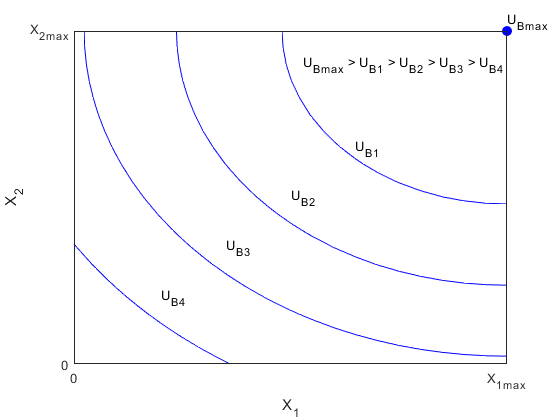
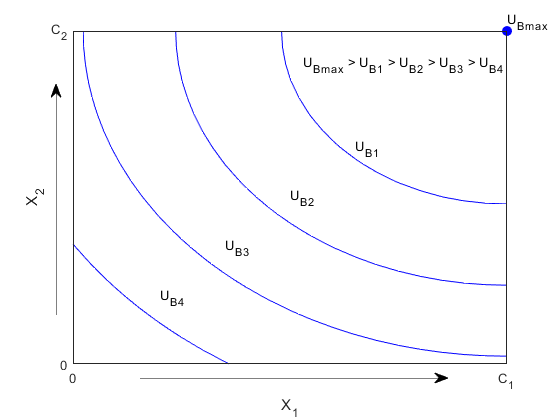
revised figures

diff --git a/figures_2019_10/fig3.m b/figures_2019_10/fig3.m
@@ -18,10 +18,10 @@ c1 = contour(x1,x2,y1,[1], 'r', 'LineWidth',1.5 );
 f1 =gca;
 f1.XAxisLocation ='top';
 xticks([0])
-xticklabels({'X_1_m_a_x'})
+xticklabels({'C_2'})
 f1.YAxisLocation ='right';
 yticks([0])
-yticklabels({'X_2_m_a_x'})
+yticklabels({'C_1'})
 hold on
 scatter(0,0,'MarkerEdgeColor','r',...
               'MarkerFaceColor','r',...
@@ -44,10 +44,10 @@ scatter(1,1,'MarkerEdgeColor','b',...
               'MarkerFaceColor','b',...
               'LineWidth',1.5)
 text(0.95,0.95,'B', 'Color','b')
-text(0.5,-0.07,'X_1_B')
-text(0.5,1.05,'X_1_A')
-text(-0.1,0.5,'X_2_B')
-text(1.05,0.5,'X_2_A')
+text(0.5,-0.07,'X_1')
+%text(0.5,1.05,'X_1_A')
+text(-0.1,0.5,'X_2')
+%text(1.05,0.5,'X_2_A')
 text(0.2,0.33,'U_B = Constant', 'Color','b')
 text(0.65,0.65,'U_A = Constant', 'Color','r')
 
@@ -75,6 +75,12 @@ btwRegion = [c1(1,startN:endN), c2(1,startN:endN)];
 x_region = [c1(2,startN:endN), c2(2,startN:endN)];
 ff = fill(x_region, btwRegion, [0.95 0.95 0.9]);
 ff.EdgeColor = 'none';
+
+hold on 
+xx = linspace(0.44,0.57, 5);
+yy = linspace(0.4,0.6,5);
+scatter(xx,yy,'x')
+
 
 %example of drawing a arrow
 % p1 = [2 3];                         % First Point

diff --git a/figures_2019_10/fig2.m b/figures_2019_10/fig2.m
@@ -20,10 +20,10 @@ xlabel('X_1')
 ylabel('X_2')
 f1.XAxisLocation ='bottom';
 xticks([0 1])
-xticklabels({'0', 'X_1_m_a_x'})
+xticklabels({'0', 'C_1'})
 f1.YAxisLocation ='left';
 yticks([0 1])
-yticklabels({'0', 'X_2_m_a_x'})
+yticklabels({'0', 'C_2'})
 hold on
 scatter(1,1,'MarkerEdgeColor','b',...
               'MarkerFaceColor','b',...
@@ -33,5 +33,14 @@ text(0.65,0.65,'U_B_1')
 text(0.5,0.5,'U_B_2')
 text(0.35,0.35,'U_B_3')
 text(0.2,0.2,'U_B_4')
+
+arrowX = [0.25 0.8];
+arrowY = [0.1 0.1];
+annotation('arrow',arrowX,arrowY);
+
+arrowX2 = [0.1 0.1];
+arrowY2 = [0.25 0.8];
+annotation('arrow',arrowX2,arrowY2);
+
 text(0.53,0.9,'U_B_m_a_x > U_B_1 > U_B_2 > U_B_3 > U_B_4')
 

diff --git a/figures_2019_10/fig6.m b/figures_2019_10/fig6.m
@@ -46,13 +46,26 @@ c1.LineWidth = 1.5;
 % c3(z >= threshold) = 1;
 % c3(z < threshold) = 0;
 % s3.CData = c3;
+hold on
+scatter(5,5, 'r', 'filled')
+hold off
+
+
+fig = gca;
+fig.FontSize = 8;
 
 xLab = xlabel('X_1','fontsize',10);
-xLab.Position = [6 -0.25 -0.05];
-xticks([]);
+xLab.Position = [7 -0.25 -0.05];
+%xticks([]);
+xticks([5])
+xticklabels({'C_1'})
+
 yLab = ylabel('X_2','fontsize',10);
-yLab.Position = [-0.25 6 -0.05];
-yticks([]);
+yLab.Position = [-0.25 4 -0.05];
+%yticks([]);
+yticks([5])
+yticklabels({'C_2'})
+
 XX = yLab.Position;
 zlabel('U','fontsize',10)
 zticks([])

diff --git a/figures_2019_10/fig5.m b/figures_2019_10/fig5.m
@@ -22,12 +22,25 @@ hold on
 c1 = contour(X,Y,z1,[8], 'r');
 
 
+scatter(5,5, 'r', 'filled')
+hold off
+
+
+fig = gca;
+fig.FontSize = 8;
+
 xLab = xlabel('X_1','fontsize',10);
-xLab.Position = [5 -0.5 -0.05];
-xticks([])
+xLab.Position = [7 -0.25 -0.05];
+%xticks([]);
+xticks([5])
+xticklabels({'C_1'})
+
 yLab = ylabel('X_2','fontsize',10);
-yLab.Position = [-0.5 5 -0.08];
-yticks([])
+yLab.Position = [-0.25 4 -0.05];
+%yticks([]);
+yticks([5])
+yticklabels({'C_2'})
+
 XX = yLab.Position;
 zlabel('U','fontsize',10)
 zticks([])
